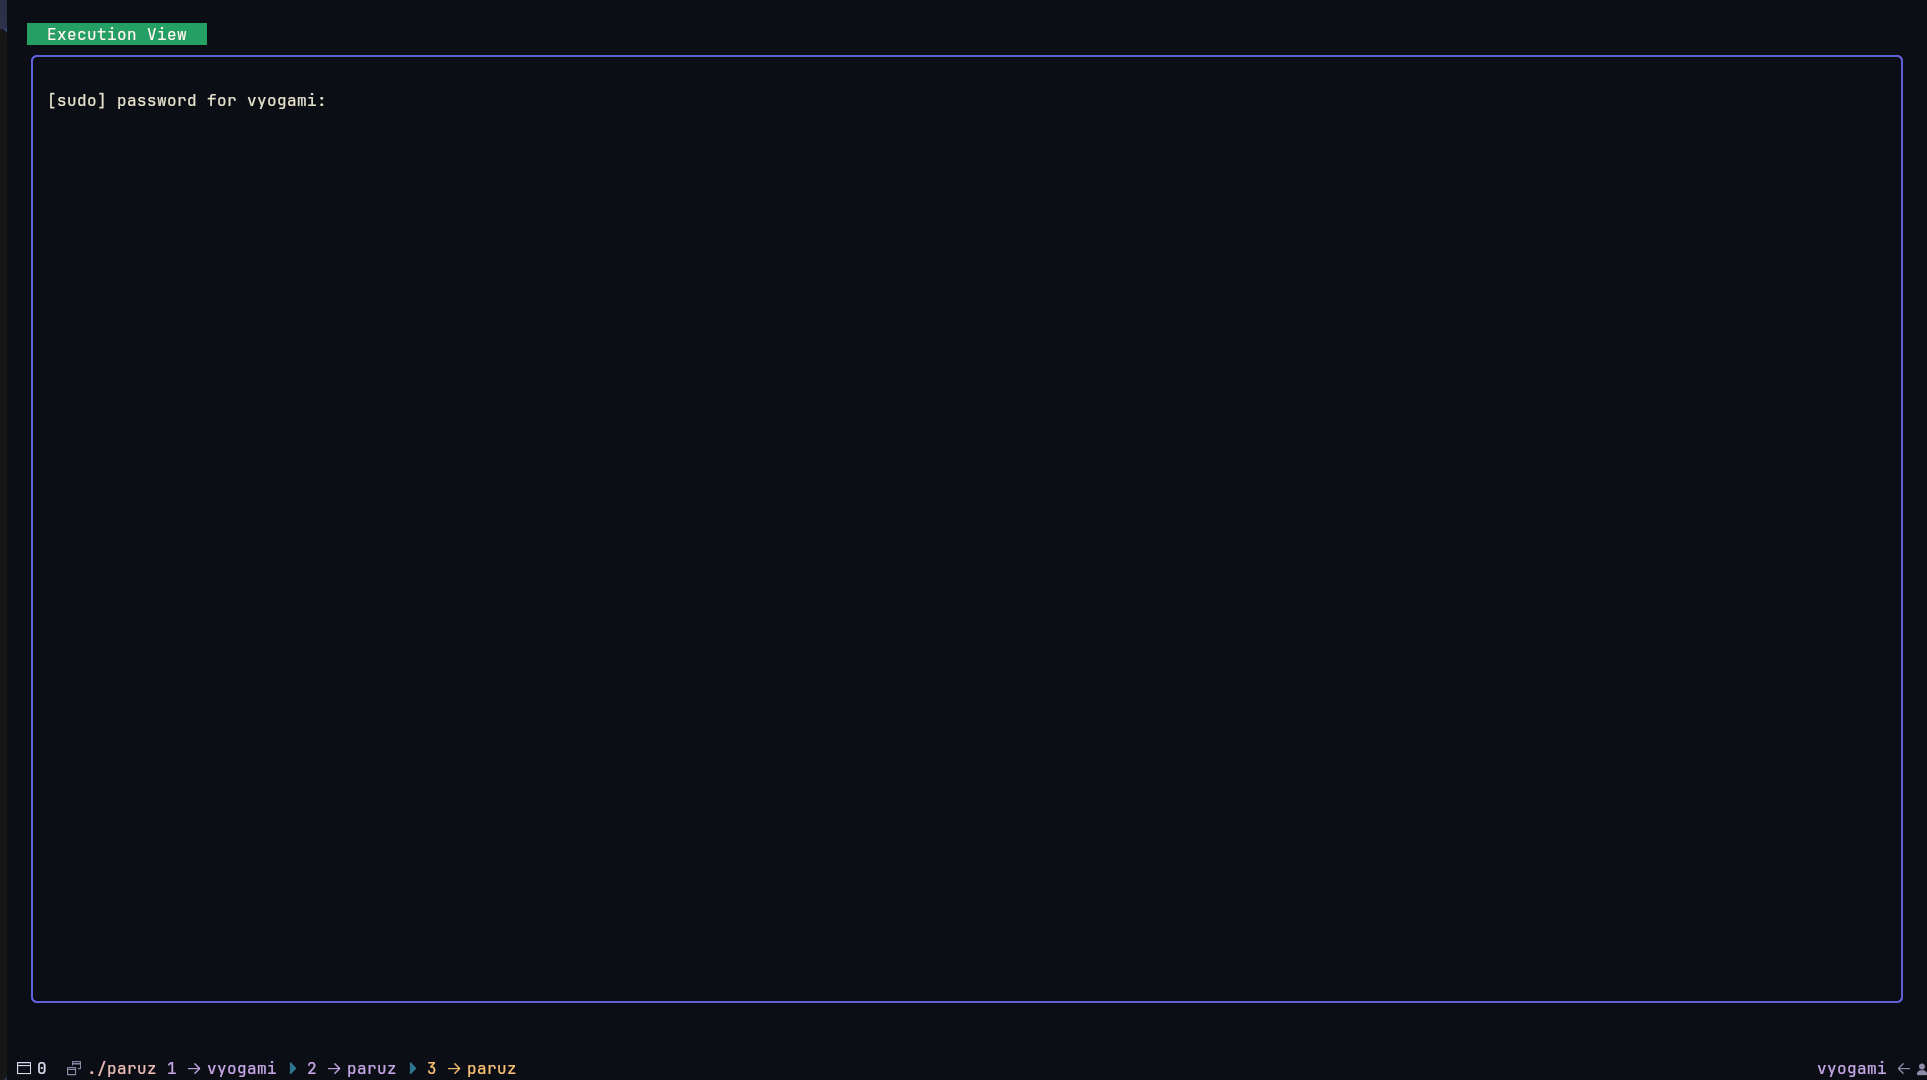
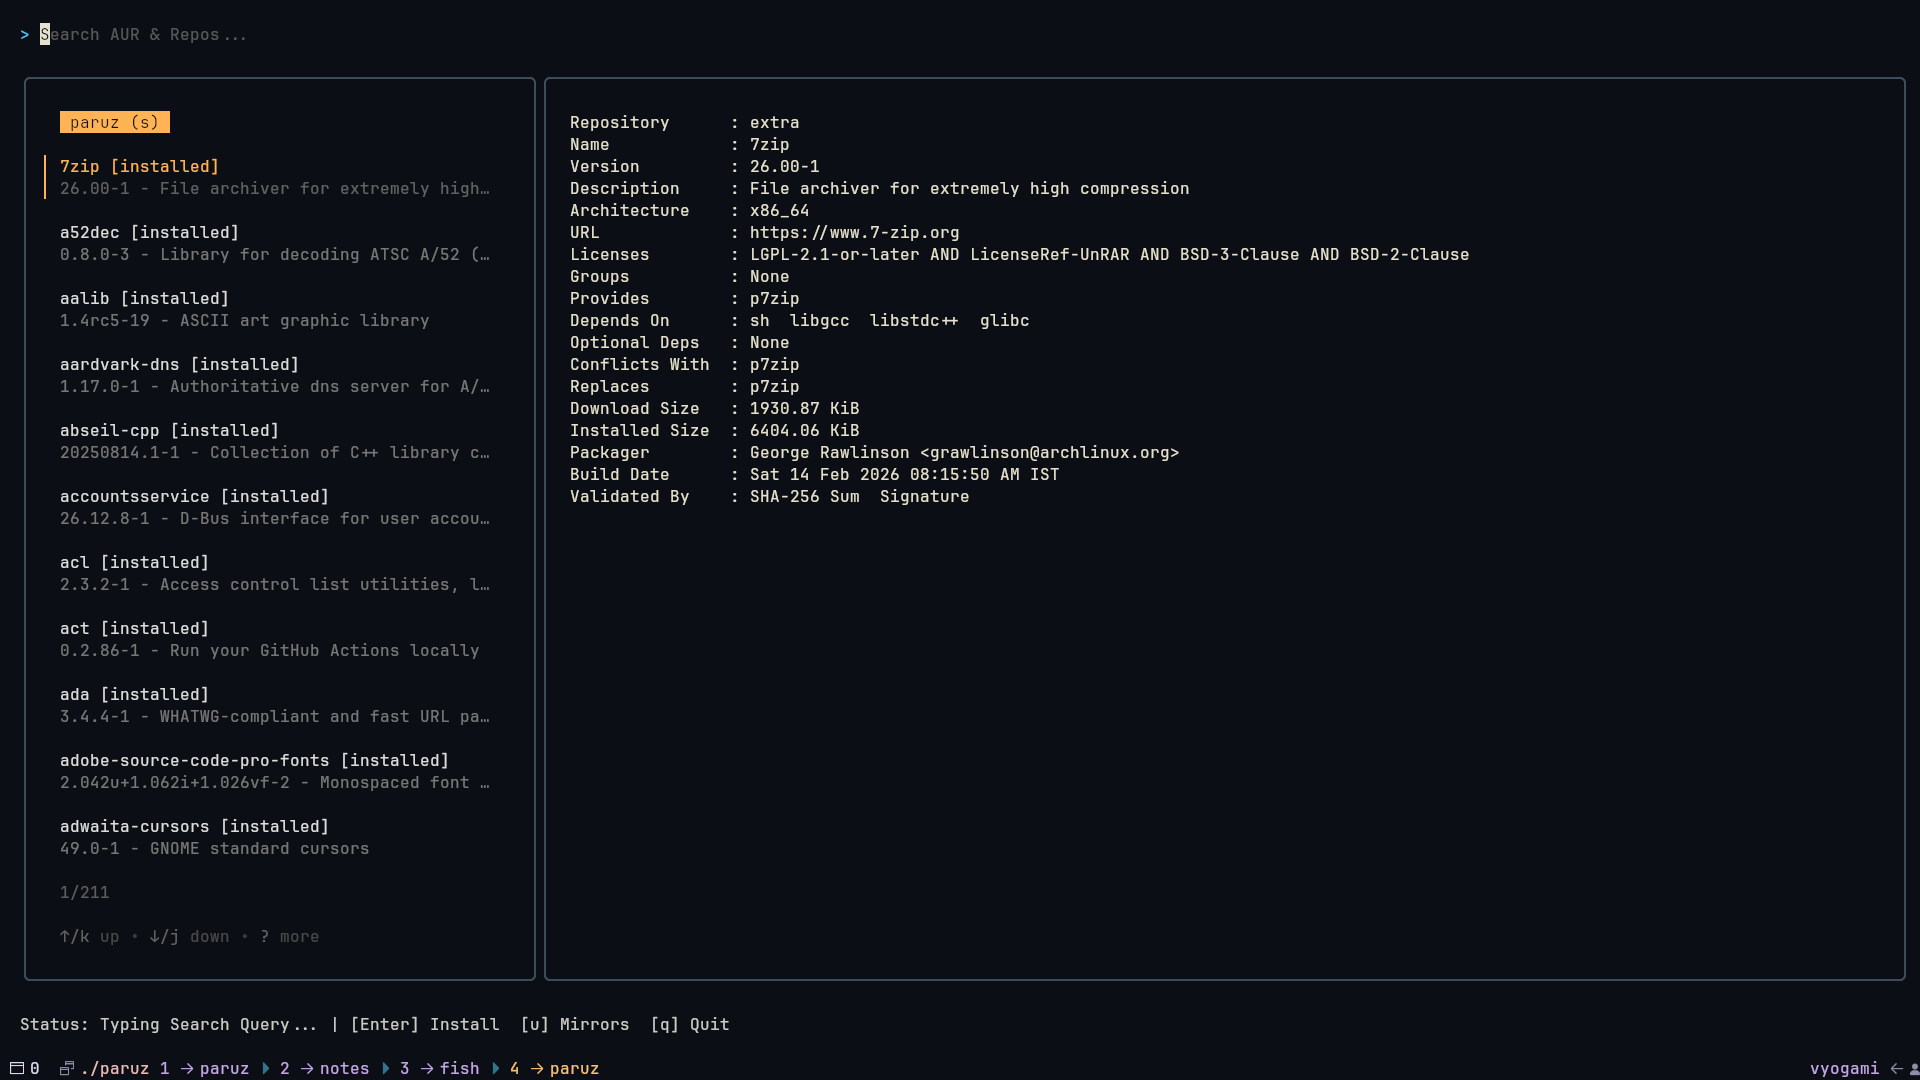
feat: add --version flag and support for more architectures (386, arm)

diff --git a/internal/ui/app.go b/internal/ui/app.go
@@ -36,6 +36,7 @@ type AppModel struct {
 	refreshingCache bool
 	config      config.Config
 	oldConfig   config.Config
+	version     string
 
 	// Bootstrap state
 	missingDeps []backend.Dependency
@@ -57,7 +58,7 @@ type AppModel struct {
 	height int
 }
 
-func InitialModel() *AppModel {
+func InitialModel(version string) *AppModel {
 	cfg := config.LoadConfig()
 	if cfg.AURHelper == "" {
 		cfg.AURHelper = "paru"
@@ -88,6 +89,7 @@ func InitialModel() *AppModel {
 		detailView:        dv,
 		searchInput:       ti,
 		config:            cfg,
+		version:           version,
 		settingsIndex:     0,
 		settingsTotal:     3, // AUR Helper, Mirror Helper, Theme
 		bootstrapSelected: make(map[int]bool),

diff --git a/cmd/paruz/main.go b/cmd/paruz/main.go
@@ -8,8 +8,18 @@ import (
 	"github.com/vyogami/paruz/internal/ui"
 )
 
+var version = "v1.0.0"
+
 func main() {
-	m := ui.InitialModel()
+	if len(os.Args) > 1 {
+		switch os.Args[1] {
+		case "v", "-v", "--version", "version":
+			fmt.Printf("paruz %s\n", version)
+			return
+		}
+	}
+
+	m := ui.InitialModel(version)
 	p := tea.NewProgram(m, tea.WithAltScreen(), tea.WithMouseCellMotion())
 	ui.SetProgramRef(p)
 
